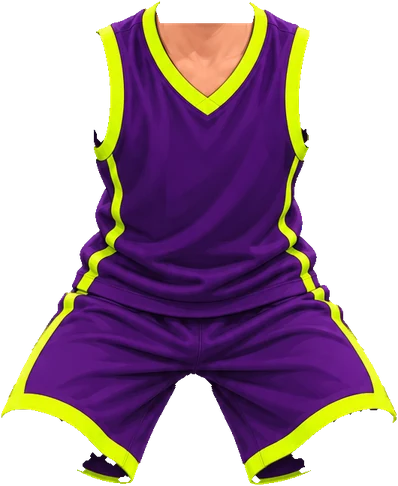
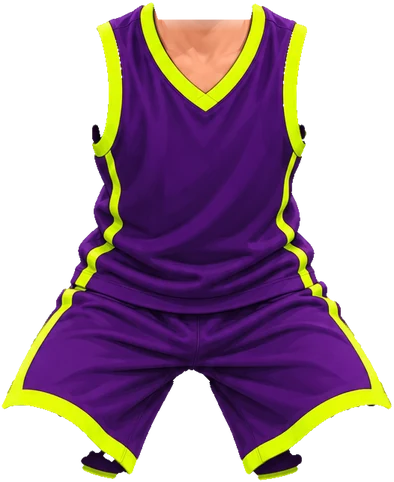
Clean shoulder and neck joints, fit the laptop Start button, autoplay music
- Shoulders: the arm owns all shoulder skin up to the strap (no gap or pointed
  tip when it turns); the dark armhole stays with the jersey; torso and upper-arm
  edges get a despike pass so no slivers poke out.
- Neck under the collar follows the real neck width and blends in (no boxy patch
  or line in the jersey's V).
- Home on landscape screens: Start Training fills its column and its text is
  sized to fit with room to spare; greeting stays on one line on laptops.
- Music tries to autoplay on open (allowed on often-used sites and installed
  apps), otherwise starts on the first tap or key press.

Claude-Session: https://claude.ai/code/session_01E7pRxaNDmV36gPS8iFnBCv

diff --git a/js/music.js b/js/music.js
@@ -1,8 +1,9 @@
 // Background music. One looping track for the whole app for now (Jon's "Jackie Moon",
 // trimmed to start 5 s in). Later the drills can get their own track.
 //
-// - Browsers block sound until the player taps or presses a key, so the music
-//   starts on the first interaction.
+// - Tries to autoplay as soon as the app opens. Browsers only allow that on sites
+//   the player uses often or installed apps; otherwise the music starts on the
+//   first tap or key press (no website can force sound before that).
 // - A small music button (top-right, every screen) turns it on/off; the choice
 //   is saved on the device.
 // - restartMusic() starts the track over (called when a drill ends).
@@ -28,8 +29,11 @@ function track() {
 }
 
 function play() {
-  if (!unlocked || !isMusicOn() || document.hidden) return;
-  track().play().catch(() => {});     // ignore autoplay refusals; the next tap retries
+  if (!isMusicOn() || document.hidden) return;
+  // Before the first tap this is an autoplay attempt: browsers allow it on sites
+  // the player uses often (and on installed apps); otherwise it's refused and the
+  // first tap or key press starts the music instead.
+  track().play().then(() => { unlocked = true; }).catch(() => {});
 }
 
 /** Start the track over from the top (e.g. when a drill ends). */
@@ -61,6 +65,8 @@ export function initMusic() {
   };
   window.addEventListener("pointerdown", unlock, true);
   window.addEventListener("keydown", unlock, true);
+
+  play();                                            // try to autoplay right away
 
   document.addEventListener("visibilitychange", () => {
     if (document.hidden) audio?.pause();

diff --git a/js/components/puppetRig.js b/js/components/puppetRig.js
@@ -4,14 +4,14 @@
 // rest angle (the bone's angle in the art, same convention as segAngle).
 
 export const PIECES = {
-  torso: { w: 78.44, h: 95.904, x: -38.924, y: -70.152, rest: 0.0 },
-  head: { w: 35.52, h: 36.408, x: -18.648, y: -30.044, rest: 0.0 },
+  torso: { w: 77.848, h: 95.164, x: -38.628, y: -69.412, rest: 0.0 },
+  head: { w: 35.52, h: 44.844, x: -18.648, y: -30.044, rest: 0.0 },
   hair: { w: 36.852, h: 25.752, x: -19.388, y: -47.212, rest: 0.0 },
-  upperL: { w: 33.004, h: 39.812, x: -23.68, y: -8.732, rest: 35.44 },
+  upperL: { w: 34.484, h: 39.072, x: -23.532, y: -7.992, rest: 35.44 },
   foreL: { w: 20.276, h: 24.42, x: -14.652, y: -4.736, rest: 34.59 },
   handL: { w: 17.612, h: 26.048, x: -13.912, y: -3.108, rest: 34.59 },
   thumbL: { w: 9.176, h: 10.064, x: -4.144, y: -3.996, rest: 34.59 },
-  upperR: { w: 32.56, h: 40.108, x: -9.176, y: -8.732, rest: -34.77 },
+  upperR: { w: 34.188, h: 39.22, x: -10.804, y: -7.844, rest: -34.77 },
   foreR: { w: 20.72, h: 23.976, x: -5.772, y: -4.588, rest: -33.92 },
   handR: { w: 19.98, h: 27.528, x: -3.996, y: -3.552, rest: -33.92 },
   thighL: { w: 31.524, h: 38.628, x: -22.2, y: -5.476, rest: 25.69 },
@@ -35,4 +35,4 @@ export const ART_BODY = {
 export const THUMB = { pivot: [2.072, 5.772], tip: [6.216, 10.508] };
 
 // Recolor: the art's own fabric tones (mean luminance) under each mask, per piece.
-export const RECOLOR_REFS = {"torso": {"jersey": 34.35, "trim": 219.38}};
+export const RECOLOR_REFS = {"torso": {"jersey": 34.33, "trim": 219.92}};

diff --git a/css/styles.css b/css/styles.css
@@ -158,12 +158,14 @@ button:focus-visible, input:focus-visible {
     min-height: calc(100dvh - var(--gap) * 3);
     padding-top: 0;
   }
-  .home > .greeting { grid-area: greet; align-self: end; }
+  .home > .greeting { grid-area: greet; align-self: end; padding-inline: 0; font-size: clamp(2.4rem, 1rem + 3vw, 4.2rem); }
   .home > .player-card { grid-area: card; }
   .home > .btn-link { grid-area: edit; justify-self: center; }
   .home > .btn-huge {
-    grid-area: go; align-self: start; justify-self: center; min-height: 0; padding-block: 0.45em;
-    white-space: nowrap; font-size: clamp(1.8rem, 1rem + 2.4vw, 3.4rem);
+    grid-area: go; align-self: start; justify-self: center;
+    width: 100%; max-width: 560px; min-height: 0;
+    padding: 0.5em 0.9em; white-space: nowrap;
+    font-size: clamp(1.5rem, 0.8rem + 1.5vw, 2.6rem);   /* text always fits with room to spare */
   }
   .home .player-card__avatar { height: min(62vh, 520px); }
 }

diff --git a/tools/avatar/cut.py b/tools/avatar/cut.py
@@ -111,8 +111,17 @@ def seg_angle(a, b):  # same convention as avatar.js: rotation that points +y al
 pieces = {}
 REFS = {}
 
-def save(name, colors, a, pivot, rest=0.0, recolor=False):
+def despike(a, r):
+    """Grey opening with a disk: removes points and slivers thinner than ~2r px."""
+    yy0, xx0 = np.ogrid[-r:r + 1, -r:r + 1]
+    disk = (xx0 * xx0 + yy0 * yy0) <= r * r
+    opened = ndi.grey_opening(np.pad(a, r + 2), footprint=disk)[r + 2:-(r + 2), r + 2:-(r + 2)]
+    return np.minimum(a, ndi.gaussian_filter(opened, 0.6))
+
+def save(name, colors, a, pivot, rest=0.0, recolor=False, smooth=0):
     a = np.clip(a, 0, 1)
+    if smooth:
+        a = despike(a, smooth)
     ys, xs = np.where(a > 0.01)
     x0, x1, y0, y1 = xs.min() - 2, xs.max() + 3, ys.min() - 2, ys.max() + 3
     x0, y0 = max(x0, 0), max(y0, 0)
@@ -144,13 +153,57 @@ torso_vis = fig & (ndi.binary_fill_holes(tj | chest_v) | chest_v) & ~(headzone &
 # the shorts hems hang below 905 in the middle: take the shorts' purple/neon there too
 shorts_low = fig & ndi.binary_closing(jersey_px, iterations=3) & (yy >= 880) & (yy < 990) & (xx > 300) & (xx < 720)
 torso_vis |= shorts_low
-save("torso", rgb, alpha * torso_vis, J["pelvis"], recolor=True)
+# Shoulders: the torso carries the dark inside of each armhole but none of the
+# shoulder skin. The torso is drawn above
+# the upper arms, so the seam where an arm rotates is always covered by the
+# original art and never opens a sliver.
+torso_a = alpha * torso_vis
+# the chest skin in the V fades in from the top, so its edge never shows a line
+# across the neck when the head and body move a little apart
+torso_a = np.where(chest_v & ~jersey_px, torso_a * ramp(yy, 330, 372), torso_a)
+for side in ("L", "R"):
+    sx, sy = J["sh" + side]
+    d = np.hypot(xx - sx, yy - sy)
+    # no skin on the torso at the shoulders: the arm piece owns all of it (any
+    # torso-owned skin there would show as a pale sliver once the arm turns)
+    skin_here = fig & (R > B + 18) & (R > 110) & ~jersey_px & (d < 60)
+    torso_a = np.where(skin_here, 0, torso_a)
+    ax0, ax1 = (340, 392) if side == "L" else (612, 664)
+    # only the dark purple/black inside of the armhole, not the arm's brown outline
+    pit = fig & (mx < 95) & (B >= R - 8) & (xx >= ax0) & (xx < ax1) & (yy > 470) & (yy < 540)
+    pit = ndi.binary_closing(pit, iterations=2) & fig & (B >= R - 20)
+    torso_a = np.maximum(torso_a, alpha * pit)
+torso_cols = rgb.copy()
+TORSO_COVER = torso_a > 0.5
+TORSO_COVER_PIT = fig & (mx < 95) & (B >= R - 8) & (yy > 470) & (yy < 540) & (((xx >= 340) & (xx < 392)) | ((xx >= 612) & (xx < 664)))
+save("torso", torso_cols, torso_a, J["pelvis"], recolor=True, smooth=4)
 
 # ---------- head (+ neck that reaches under the collar) ----------
 head_vis = fig & headzone & ~jersey_near
-neck_ext = poly_mask([(456, 300), (570, 300), (574, 392), (452, 392)])
-cols = fill_hidden(head_vis, neck_ext)
-a = alpha * head_vis + (neck_ext & ~head_vis)
+# Neck under the collar: extend the neck straight down, exactly as wide as the neck
+# itself (column by column), painted from the neck's lowest visible pixels and
+# softened, so nothing boxy or streaky shows inside the V of the jersey.
+# the neck's own width, measured just under the jaw
+row = np.where(head_vis[338, 430:600])[0] + 430
+nx0, nx1 = int(row.min()) + 2, int(row.max()) - 2
+cols = rgb.copy()
+neck_ext = np.zeros_like(head_vis)
+for x in range(nx0, nx1 + 1):
+    ys = np.where(head_vis[300:420, x])[0]
+    if ys.size == 0:
+        continue
+    yb = 300 + ys.max()
+    src = rgb[yb - 7:yb - 2, x].mean(axis=0)               # a few px above the cut
+    neck_ext[yb - 2:450, x] = True                          # overlaps the cut: no seam
+    cols[yb - 2:450, x] = src
+    for k, yk in enumerate(range(yb - 10, yb - 2)):         # fade the art into the fill
+        t = (k + 1) / 9
+        cols[yk, x] = rgb[yk, x] * (1 - t) + src * t
+smooth_cols = np.dstack([ndi.gaussian_filter(cols[..., c], 2.5) for c in range(3)])
+band = neck_ext | ndi.binary_dilation(neck_ext, structure=np.ones((11, 1)), iterations=1)
+cols[band & ~head_vis | neck_ext] = smooth_cols[band & ~head_vis | neck_ext]
+side = ndi.gaussian_filter1d(neck_ext.astype(np.float32), 1.5, axis=1)   # soft sides only
+a = np.maximum(alpha * head_vis, np.where(neck_ext, np.clip(side * 1.6, 0, 1), 0))
 # hair: the top of the head as its own piece (for a tiny trailing bounce),
 # cross-faded with the head through the bangs so a small offset never shows a seam
 hair_t = 1 - ramp(yy, 150, 205)
@@ -162,7 +215,15 @@ def arm(side):
     sh, el, wr = J["sh" + side], J["el" + side], J["wr" + side]
     sgn = -1 if side == "L" else 1
     outside = (xx < 366) if side == "L" else (xx > 650)
-    region = component(fig & outside & ~torso_vis & ~jersey_near, el)
+    # the shoulder skin between that line and the strap belongs to the arm too
+    skin_c = fig & (R > B + 18) & (R > 110) & ~jersey_px & (yy < 470)
+    outside = outside | (skin_c & ((xx < 392) if side == "L" else (xx > 624)))
+    # keep the arm's own pixels a little away from the strap (the art's dark edge
+    # line along the strap stays with the jersey); the gap is filled with skin
+    strap_band = ndi.binary_dilation(jersey_px, iterations=7) & (yy < 480)
+    region = component(fig & outside & ~torso_vis & ~jersey_near & ~strap_band & ~TORSO_COVER_PIT, el)
+    # trim the pointed tip where the arm met the top of the strap in the art
+    region &= ~((yy < sh[1] - 50) & (ndi.distance_transform_edt(~jersey_px) < 16))
     tu, offu, Lu = proj(sh, el)
     tf, offf, Lf = proj(el, wr)
     # upper arm: shoulder cap to a little past the elbow (under the forearm). Past
@@ -170,10 +231,31 @@ def arm(side):
     # forearm when the elbow bends.
     depth = ndi.distance_transform_edt(region)                      # px in from the arm's outline
     up_vis = region & (tf < 24) & ((tf <= 0) | (depth > 9 * np.clip(tf, 0, 24) / 24))
-    up_ext = (offu < 46) & (tu > -40) & (tu < Lu * 0.45) & ~outside  # under the jersey edge
+    # under the jersey edge, including the thin band right beside the strap
+    up_ext = (offu < 46) & (tu > -60) & (tu < Lu * 0.45) & (~outside | (fig & ~region & ndi.binary_dilation(region, iterations=8)))
+    # fill the concave corner where the top of the arm meets the jersey strap, so
+    # turning the arm a little never opens a notch there
+    sx_, sy_ = sh
+    near_top = (np.hypot(xx - sx_, yy - (sy_ - 30)) < 34)
+    yy2, xx2 = np.ogrid[-10:11, -10:11]
+    comb = np.pad((region | jersey_px) & near_top, 12)
+    closed_c = ndi.binary_closing(comb, structure=(xx2 * xx2 + yy2 * yy2) <= 100)[12:-12, 12:-12]
+    up_ext |= closed_c & ~fig & near_top
+    # round off the top of the shoulder: close the V between the pointed tip
+    # (where the arm met the strap in the art) and the hidden cap, so turning the
+    # arm never opens a notch beside the strap
+    yy3, xx3 = np.ogrid[-16:17, -16:17]
+    top_zone = (tu < Lu * 0.4)
+    m0 = np.pad((up_vis | up_ext) & top_zone, 20)
+    rounded = ndi.binary_closing(m0, structure=(xx3 * xx3 + yy3 * yy3) <= 256)[20:-20, 20:-20]
+    rounded &= ~(outside & ~fig & (offu > 30)) | ~outside   # don't bulge past the outer outline
+    up_ext = up_ext | (rounded & top_zone & ~up_vis)
+    tip_zone = (yy < sh[1] - 50) & (ndi.distance_transform_edt(~jersey_px) < 16)
+    up_ext &= ~((yy < sh[1] - 50) & ~fig) & ~tip_zone   # nothing pokes above the shoulder line
     cols = fill_hidden(up_vis, up_ext)
     up_a = (alpha * up_vis + (up_ext & ~up_vis)) * np.where(tf > 0, ramp(-tf, -24, -6), 1)
-    save("upper" + side, cols, up_a, sh, seg_angle(sh, el))
+
+    save("upper" + side, cols, up_a, sh, seg_angle(sh, el), smooth=4)
     # forearm: feathered top over the elbow, ends a little past the wrist
     tf_w, _, _ = proj(wr, (wr[0] + (wr[0] - el[0]), wr[1] + (wr[1] - el[1])))
     fo = region & (tu > Lu - 30) & (tf_w < 18)
